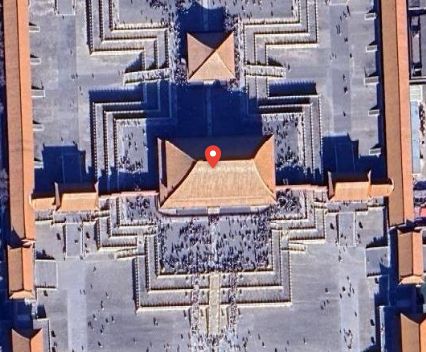
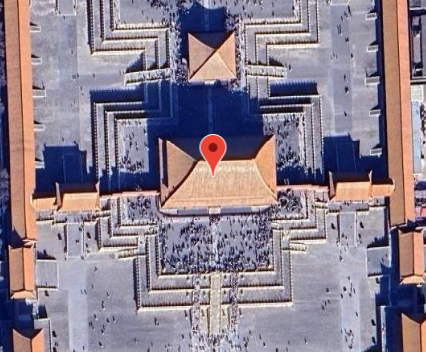
v0.8.4: use Google red spotlight-poi for place teardrops
Place-page overlay pins now use Maps' pre-colored spotlight-poi artwork
instead of the cyan vt/icon templates, matching the native red Places pin.

diff --git a/content.js b/content.js
@@ -1163,25 +1163,9 @@
 
   function appendPoiGlyph(el, kind, name, description) {
     const spec = globalThis.Gcj02Aligner.poiMarkerSpec(kind);
-    const hover = globalThis.Gcj02Aligner.poiHoverTeardropSpec();
     const mark = document.createElement("div");
     mark.className = "gcj02-poi-mark";
     const ns = "http://www.w3.org/2000/svg";
-
-    function makeSvg(className, fill, d, w, h, viewBox) {
-      const svg = document.createElementNS(ns, "svg");
-      svg.setAttribute("class", className);
-      svg.setAttribute("viewBox", viewBox);
-      svg.setAttribute("width", String(w));
-      svg.setAttribute("height", String(h));
-      svg.setAttribute("aria-hidden", "true");
-      const path = document.createElementNS(ns, "path");
-      path.setAttribute("d", d);
-      path.setAttribute("fill", fill);
-      path.setAttribute("fill-rule", "evenodd");
-      svg.appendChild(path);
-      return svg;
-    }
 
     const icon = document.createElementNS(ns, "svg");
     icon.setAttribute("class", "gcj02-poi-icon");
@@ -1200,13 +1184,22 @@
     icon.appendChild(bg);
     icon.appendChild(path);
     mark.appendChild(icon);
-    const tear = makeSvg("gcj02-poi-teardrop", hover.fill, hover.path, 28, 40, "0 0 24 24");
-    const hole = document.createElementNS(ns, "circle");
-    hole.setAttribute("cx", "12");
-    hole.setAttribute("cy", "9");
-    hole.setAttribute("r", "2.6");
-    hole.setAttribute("fill", "#fff");
-    tear.appendChild(hole);
+
+    // Place / hover teardrop: Google's pre-colored red spotlight POI artwork.
+    const pin = globalThis.Gcj02Aligner.nativeSpotlightPinSpec(2);
+    const tear = document.createElement("div");
+    tear.className = "gcj02-poi-teardrop";
+    tear.setAttribute("aria-hidden", "true");
+    tear.style.width = `${pin.width}px`;
+    tear.style.height = `${pin.height}px`;
+    const img = document.createElement("img");
+    img.className = "gcj02-poi-teardrop-img";
+    img.src = pin.src;
+    img.alt = "";
+    img.draggable = false;
+    img.width = pin.width;
+    img.height = pin.height;
+    tear.appendChild(img);
     mark.appendChild(tear);
     el.appendChild(mark);
     const labelText = String(name || "").trim();
@@ -1333,7 +1326,7 @@
       );
       el.style.left = `${screen.x}px`;
       el.style.top = `${screen.y}px`;
-      el.style.transform = "translate(-13px, -100%)";
+      el.style.transform = "translate(-50%, -100%)";
       if (hoveredPoiKey && el.dataset.key === hoveredPoiKey) el.classList.add("is-hover");
       appendPoiGlyph(el, poi.kind, poi.name, poi.description);
       panEl.appendChild(el);

diff --git a/aligner-lib.js b/aligner-lib.js
@@ -624,13 +624,27 @@
     return "place";
   }
 
-  // Classic Maps hover pin (red teardrop). Sidebar hover swaps the category
-  // glyph for this while the name rides in a white tooltip, Off and On alike.
+  // Classic Maps hover / place pin (red teardrop). Prefer Google's pre-colored
+  // spotlight POI artwork so the overlay matches the native Places pin.
   const POI_HOVER_TEARDROP = {
     fill: "#EA4335",
     // Tip at bottom-centre so translate(-50%, -100%) parks the point on the place.
     path: "M12 2C8.13 2 5 5.13 5 9c0 5.25 7 13 7 13s7-7.75 7-13c0-3.87-3.13-7-7-7zm0 9.5c-1.38 0-2.5-1.12-2.5-2.5s1.12-2.5 2.5-2.5 2.5 1.12 2.5 2.5-1.12 2.5-2.5 2.5z"
   };
+
+  // Pre-colored red Places pin (Maps API sprite). Do not use maps/vt/icon
+  // spotlight_pin_v4_* — those are cyan/magenta templates that WebGL recolors;
+  // loading them as <img> shows fluorescent blue, not Google red.
+  function nativeSpotlightPin(scale) {
+    const hdpi = Number(scale) !== 1;
+    return {
+      src: hdpi
+        ? "https://maps.gstatic.com/mapfiles/api-3/images/spotlight-poi2_hdpi.png"
+        : "https://maps.gstatic.com/mapfiles/api-3/images/spotlight-poi2.png",
+      width: 27,
+      height: 43
+    };
+  }
 
   // Google Maps draws these as vector glyphs on the native canvas (camera =
   // tourist attraction, gate tower = historic site). Overlay recreates them.
@@ -659,6 +673,10 @@
 
   function poiHoverTeardropSpec() {
     return { kind: "hover", fill: POI_HOVER_TEARDROP.fill, path: POI_HOVER_TEARDROP.path };
+  }
+
+  function nativeSpotlightPinSpec(scale) {
+    return nativeSpotlightPin(scale);
   }
 
   function dataParam(href) {
@@ -1272,6 +1290,7 @@
     classifyPoiKind,
     poiMarkerSpec,
     poiHoverTeardropSpec,
+    nativeSpotlightPinSpec,
     collectPoisFromAnchors,
     dataParam,
     mapDisplayType,

diff --git a/content.css b/content.css
@@ -97,7 +97,7 @@
 }
 .gcj02-poi {
   position: absolute !important;
-  transform: translate(-13px, -100%);
+  transform: translate(-50%, -100%);
   z-index: 2;
   display: flex;
   flex-direction: row;
@@ -113,9 +113,12 @@
 .gcj02-poi.is-place-pin .gcj02-poi-teardrop {
   display: block !important;
 }
+.gcj02-poi.is-place-pin {
+  /* Google's spotlight artwork already includes outline/shadow. */
+  filter: none;
+}
 .gcj02-poi.is-hover {
   z-index: 6;
-  transform: translate(-14px, -100%);
 }
 .gcj02-poi-mark {
   flex: 0 0 auto;
@@ -130,9 +133,16 @@
 }
 .gcj02-poi-teardrop {
   display: none;
-  width: 28px;
-  height: 40px;
+  position: relative;
+  width: 27px;
+  height: 43px;
   overflow: visible;
+}
+.gcj02-poi-teardrop img {
+  display: block;
+  width: 27px;
+  height: 43px;
+  pointer-events: none !important;
 }
 .gcj02-poi-label {
   flex: 0 0 auto;

diff --git a/tests/unit/aligner-lib.test.js b/tests/unit/aligner-lib.test.js
@@ -986,12 +986,16 @@ describe("search result POIs on the overlay", () => {
     assert.equal(pois[0].kind, "attraction");
     assert.match(contentJs, /appendPoiGlyph/);
     assert.match(contentJs, /poiMarkerSpec/);
-    assert.match(contentJs, /poiHoverTeardropSpec/);
+    assert.match(contentJs, /nativeSpotlightPinSpec/);
     assert.match(contentCss, /\.gcj02-poi-icon/);
     assert.match(contentCss, /\.gcj02-poi-teardrop/);
     assert.match(contentCss, /\.gcj02-poi\.is-hover/);
     assert.match(contentJs, /onSidebarPointerOver/);
     assert.doesNotMatch(contentJs, /gcj02-poi-pin/);
+    const pin = lib.nativeSpotlightPinSpec(2);
+    assert.match(pin.src, /spotlight-poi2_hdpi\.png/);
+    assert.equal(pin.width, 27);
+    assert.equal(pin.height, 43);
   });
 
   it("plots overlay POIs with the camera street shift, with clean labels", () => {

diff --git a/scripts/capture-readme-shots.js b/scripts/capture-readme-shots.js
@@ -338,6 +338,13 @@ async function captureShot(page, shot) {
       ".m6QErb.WNBkOb{display:none!important}"
     ].join("")
   }).catch(() => {});
+  // Wait for Google spotlight_pin artwork on overlay place pins.
+  if (shot.extension) {
+    await page.waitForFunction(() => {
+      const imgs = [...document.querySelectorAll(".gcj02-poi.is-place-pin .gcj02-poi-teardrop img")];
+      return imgs.length >= 1 && imgs.every((img) => img.complete && img.naturalWidth > 0);
+    }, { timeout: 15000 }).catch(() => {});
+  }
   const mapBounds = await getMapCanvasBounds(page);
   const pin = await findPinTip(page, shot.url);
   if (!pin) throw new Error(`pin not found: ${shot.label}`);

diff --git a/README.md b/README.md
@@ -65,7 +65,7 @@ No data is sent to any server other than Google’s existing tile hosts.
 | View | Extension behavior |
 | --- | --- |
 | Satellite / hybrid (clean photo) | Aligned WGS photo + shifted GCJ labels |
-| Place page (named POI) | Aligned stack; one teardrop if pin datum ≠ basemap |
+| Place page (named POI) | Aligned stack; one native-style teardrop if pin datum ≠ basemap |
 | Place page (WGS lat/lon in URL) | Same; pin stays on feature |
 | Search / directions / terrain / traffic | Native Map basemap; overlay off |
 | Street View / 3D Earth | Native Google view; overlay off |
@@ -98,7 +98,7 @@ No data is sent to any server other than Google’s existing tile hosts.
 ## Design principles
 
 1. **Satellite and streets must coincide whenever both are visible.** On a clean satellite view the extension hides Google’s skewed photo and paints aligned WGS-84 `s` imagery with CSS-shifted hybrid `h` labels on top, so the roads sit on the features in the photo.
-2. **Do not repaint Google’s layers — except one Place teardrop when needed.** Search pins, directions routes, terrain, traffic, transit, bicycling, Street View coverage, and similar features stay on Google’s native canvas. The only overlay glyph is a single aligned teardrop on Place pages when the URL pin datum does not match the current basemap (e.g. named「太和殿」on satellite, or a WGS DMS query on the street map).
+2. **Do not repaint Google’s layers — except one Place teardrop when needed.** Search pins, directions routes, terrain, traffic, transit, bicycling, Street View coverage, and similar features stay on Google’s native canvas. The only overlay glyph is a single aligned teardrop on Place pages when the URL pin datum does not match the current basemap (e.g. named「太和殿」on satellite, or a WGS DMS query on the street map). That teardrop uses Google Maps’ native red `spotlight-poi` artwork so it matches the Places pin.
 3. **If rules 1 and 2 cannot both hold, turn off satellite and use the map basemap.** The extension detects views that need native layers (search, directions, terrain, traffic, pegman drag, etc.), tears down the aligned overlay, and switches Google Maps to the **Map** basemap. Rewriting the URL alone is not enough — Maps can keep painting satellite tiles until the Layers / minimap control is clicked; the extension does that for you when you open **Directions** (規劃路線) from satellite.
 
 **Datum rules (still apply to the aligned tile stack):**
